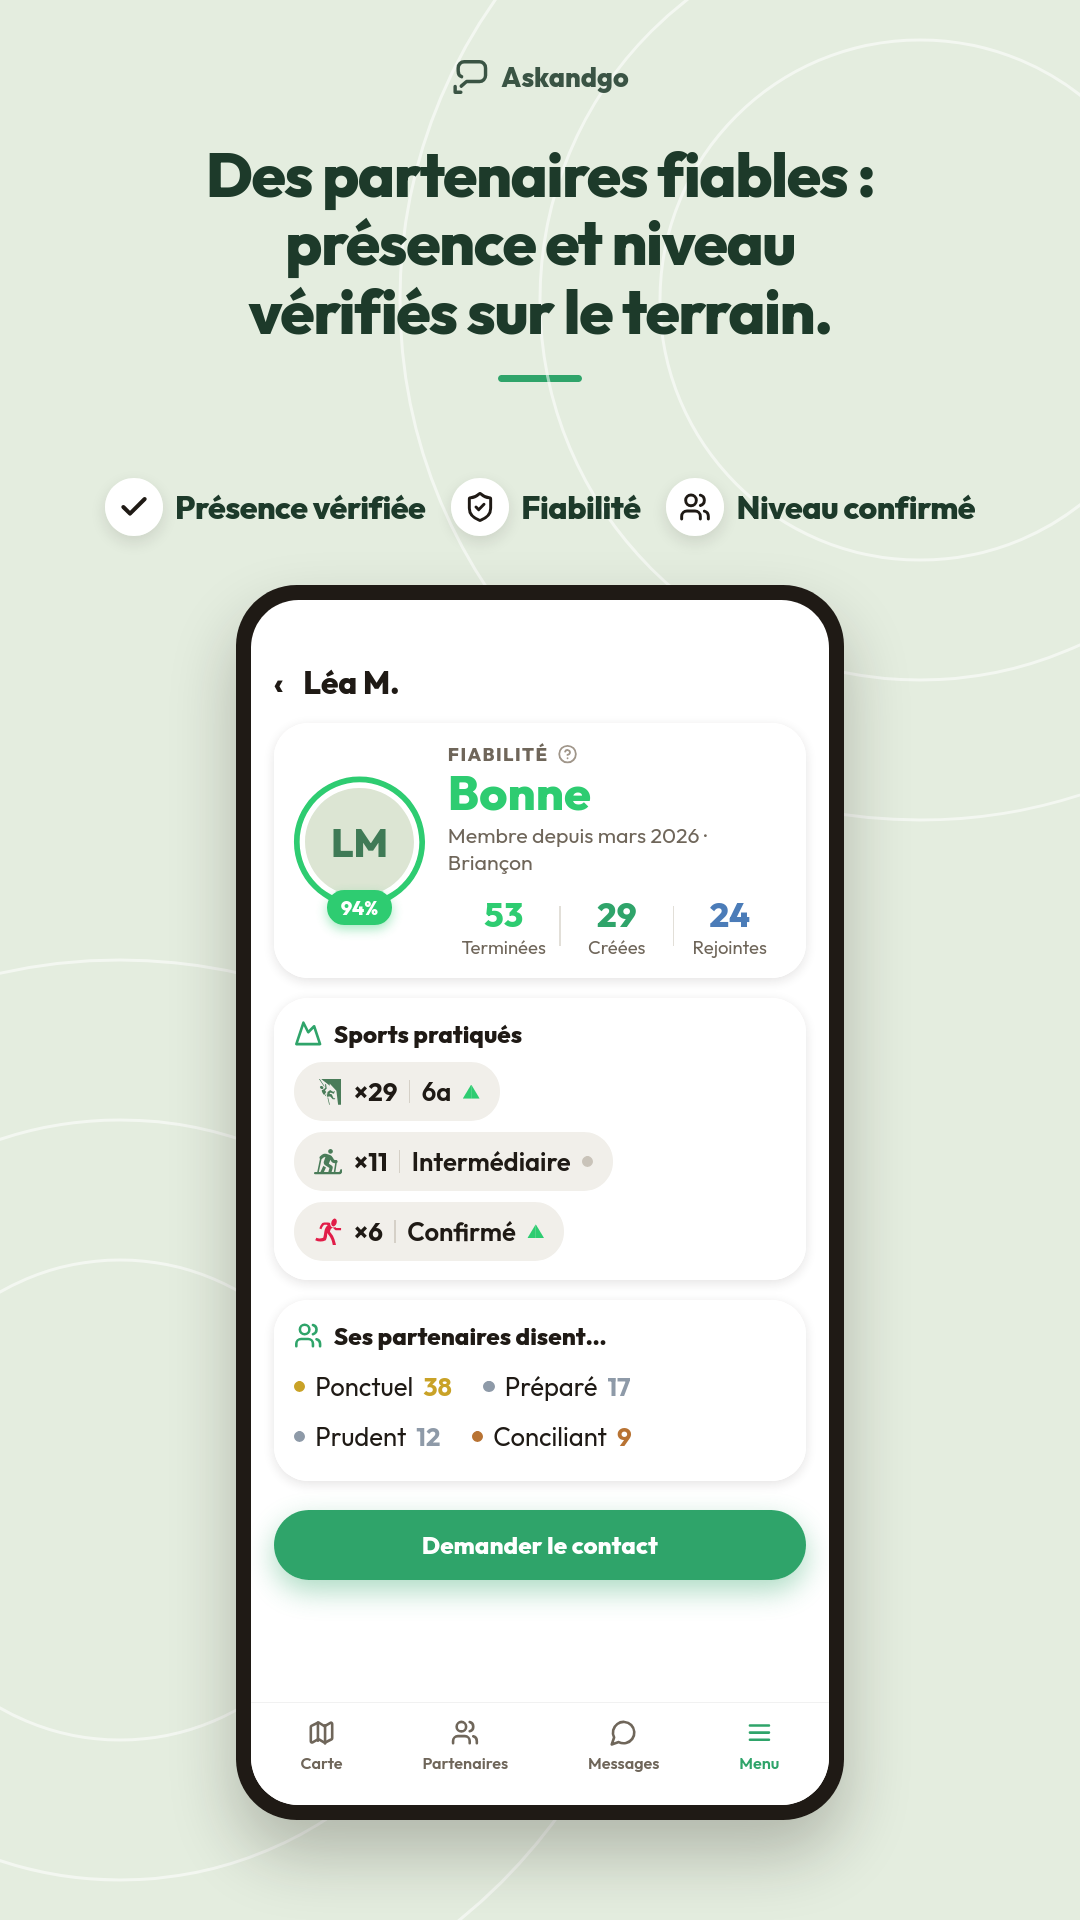
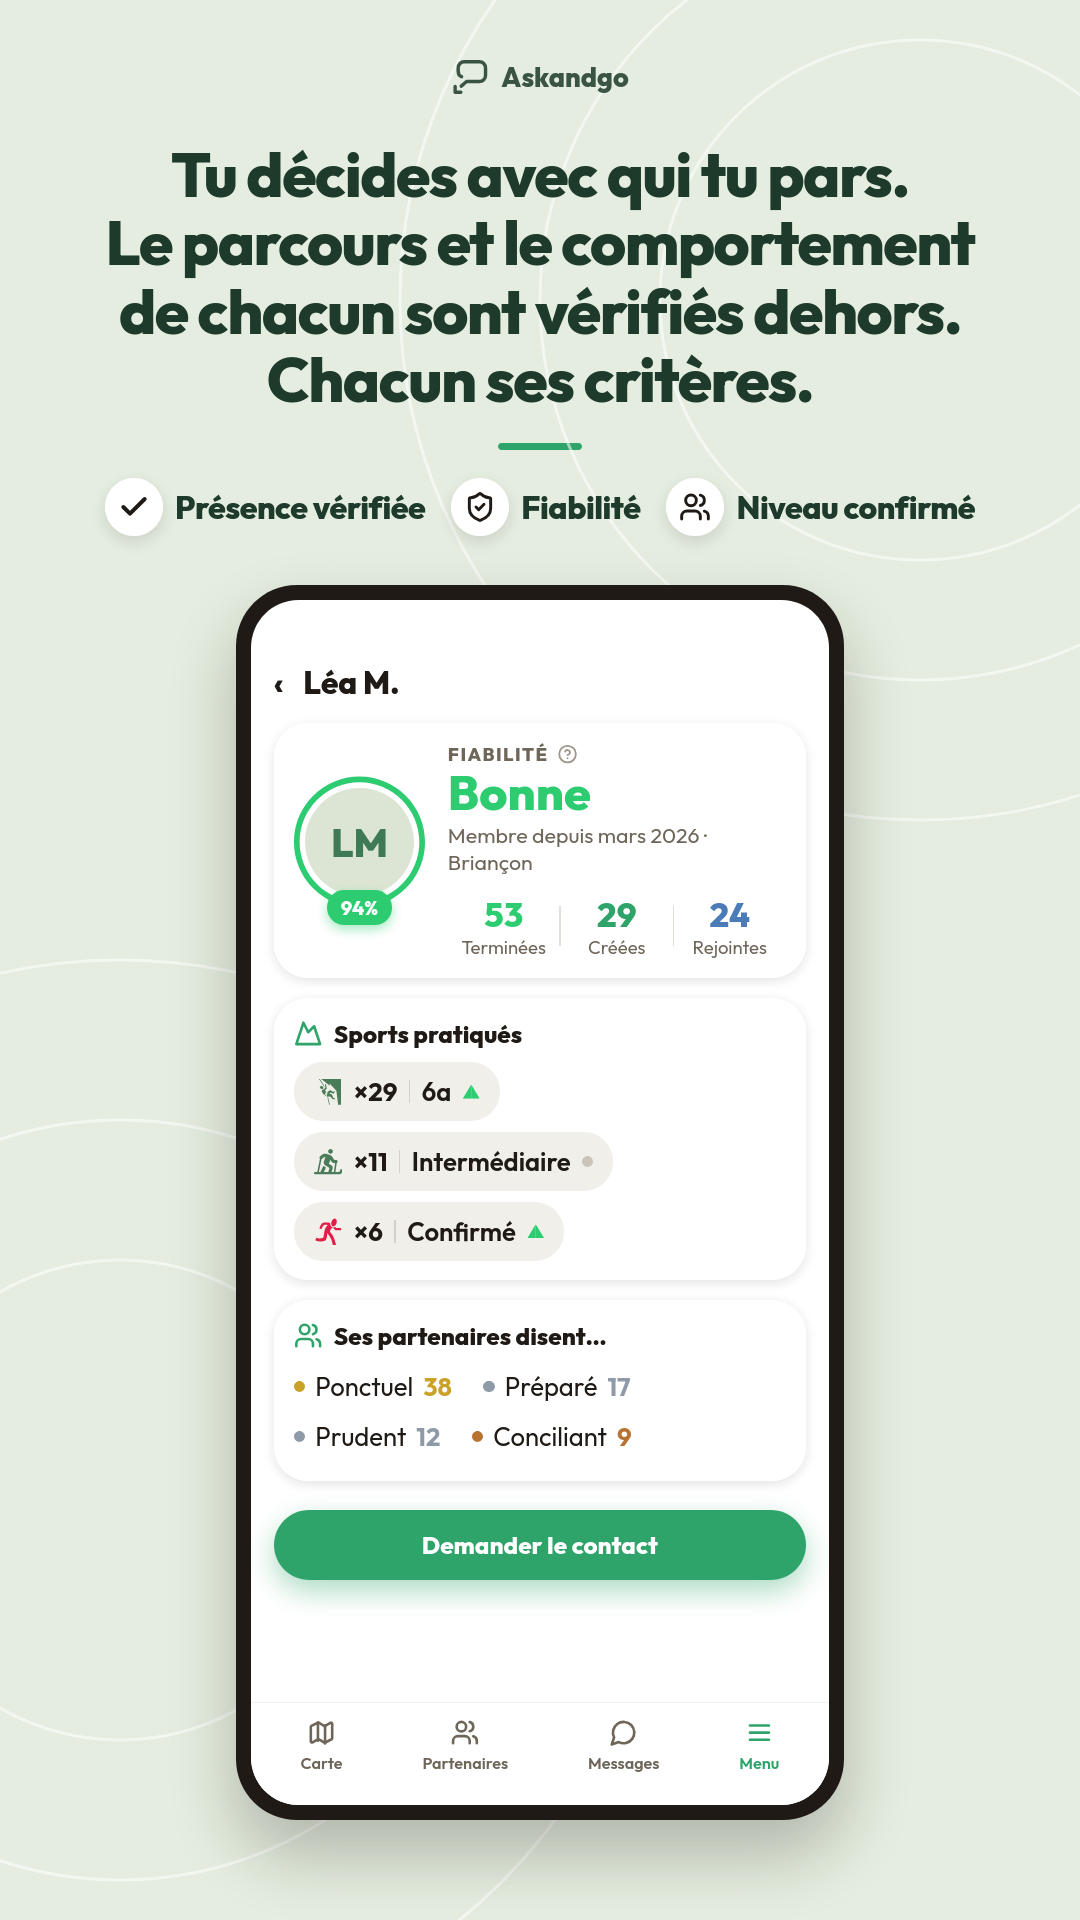
feat(play): image 5 title — « Tu décides avec qui tu pars. Le parcours et le comportement de chacun sont vérifiés dehors. Chacun ses critères. »

Changed region(s): [[0.0917, 0.0625, 0.9167, 0.25]]

diff --git a/assets/play-store/askandgo/single.py b/assets/play-store/askandgo/single.py
@@ -28,7 +28,7 @@ elif which == '4':
     html = single("Les discussions des pratiquants<br>de ta vallée,<br>sport par sport.", '', screen_body,
                   [(sp('ski-touring', 34, INK), 'Par sport'), (li('pin', 32, INK), 'Par vallée'), (li('users', 32, INK), 'Ouvert à tous')])
 else:
-    html = single("Des partenaires fiables :<br>présence et niveau<br>vérifiés sur le terrain.", '', screen_body,
+    html = single("Tu décides avec qui tu pars.<br>Le parcours et le comportement<br>de chacun sont vérifiés dehors.<br>Chacun ses critères.", '', screen_body,
                   [(li('check', 32, INK, 3), 'Présence vérifiée'), (li('shield', 32, INK), 'Fiabilité'), (li('users', 32, INK), 'Niveau confirmé')])
 html = html.replace('font-size:82px;line-height:1.04', 'font-size:62px;line-height:1.1').replace('margin:150px 70px 0;text-align:center', 'margin:140px 60px 0;text-align:center')
 open(sys.argv[2], 'w').write(html)
